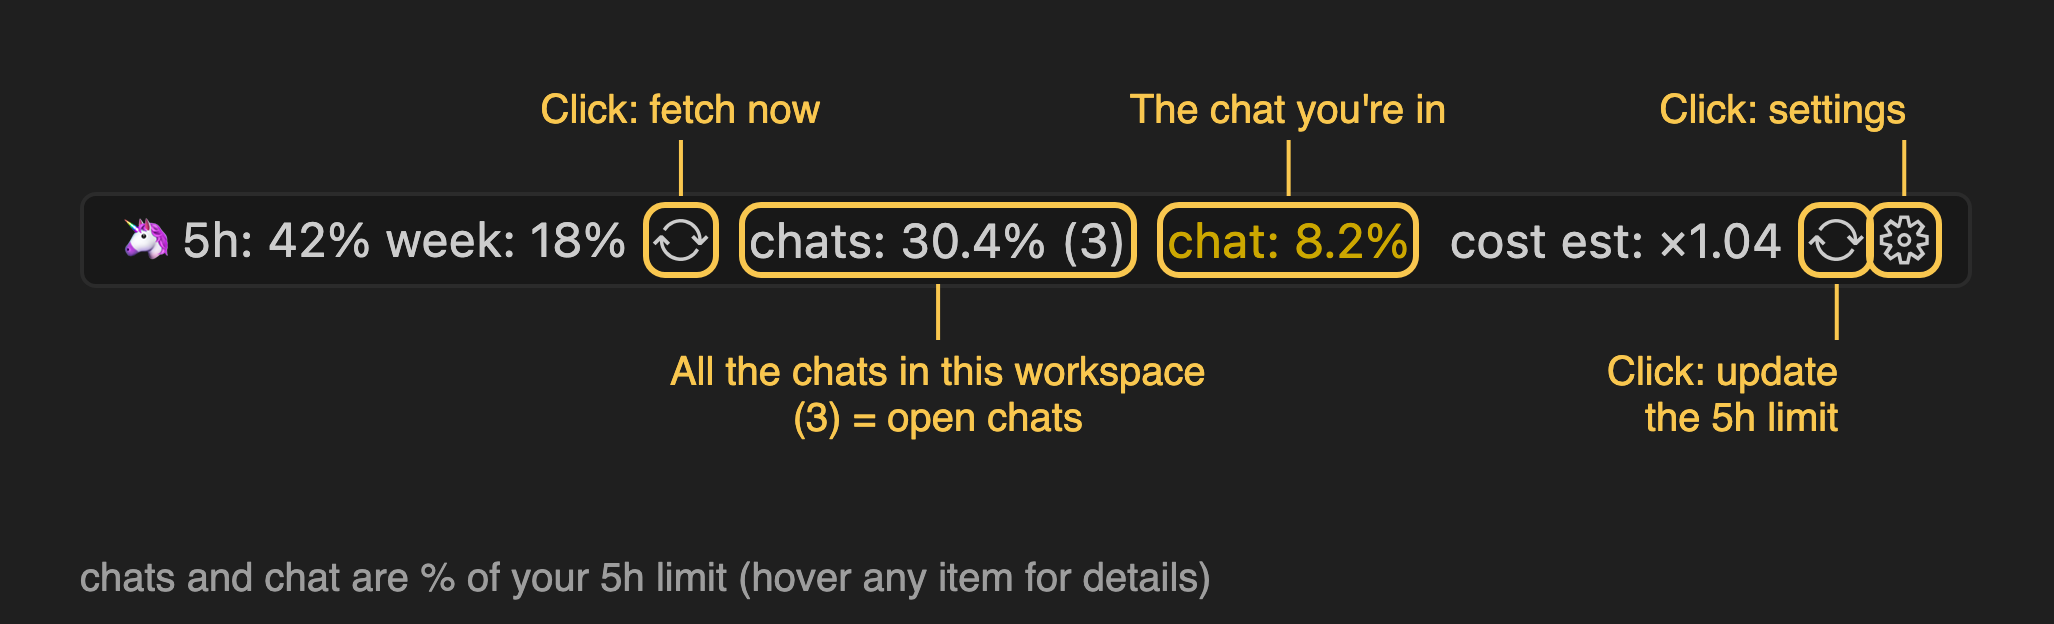
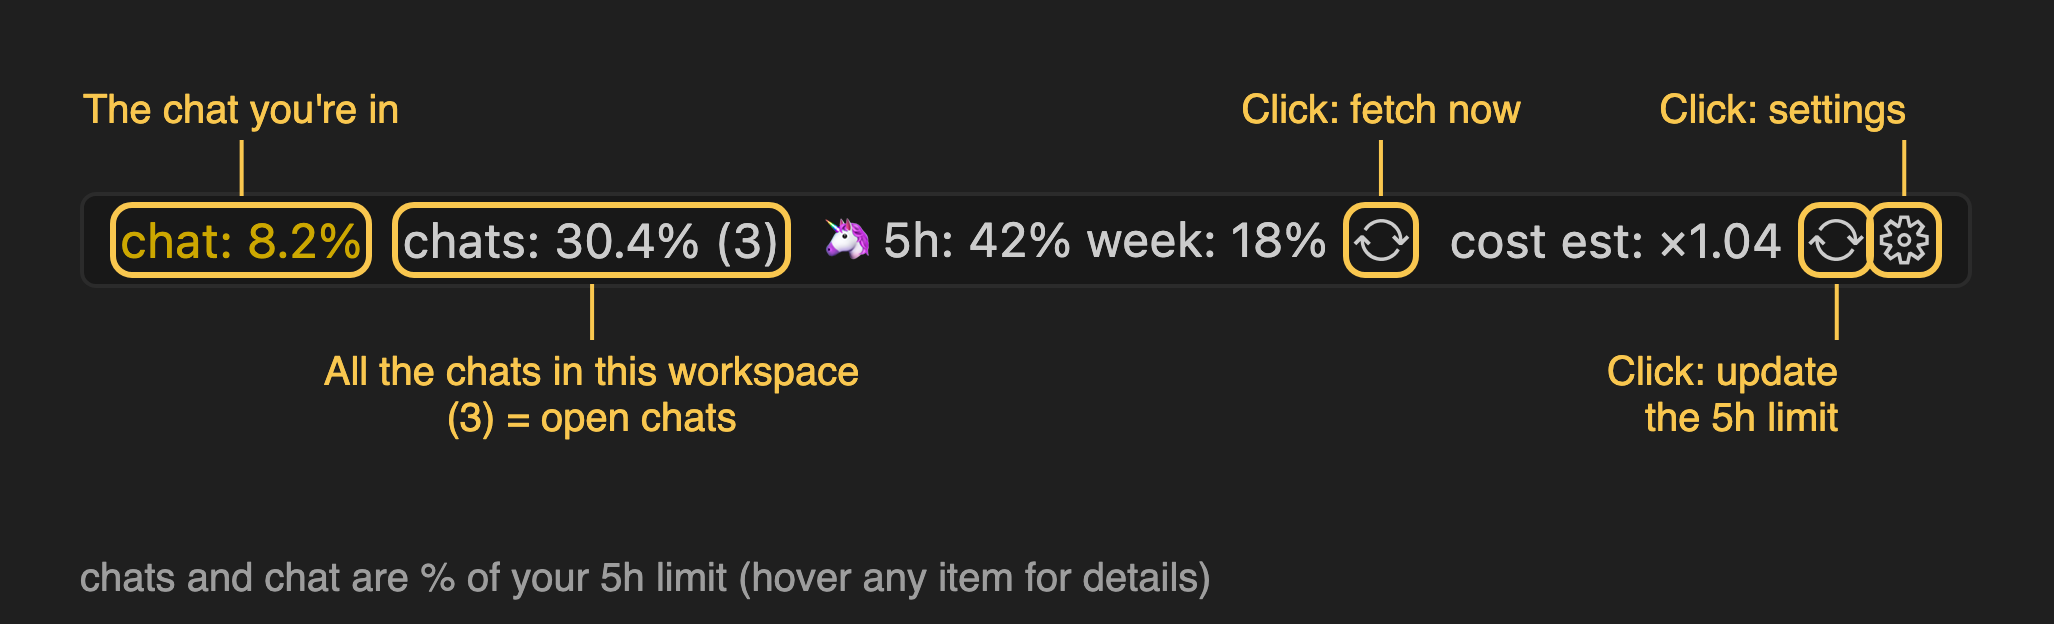
Status bar order: chat, chats, 5h/week, cost est; settings, README and overview picture follow

diff --git a/extension.js b/extension.js
@@ -115,13 +115,13 @@ function costColor(cost) {
 
 function activate(context) {
   // 5h and weekly (from the server); click to fetch them now
-  const item = vscode.window.createStatusBarItem(vscode.StatusBarAlignment.Left, 0);
+  const item = vscode.window.createStatusBarItem(vscode.StatusBarAlignment.Left, -0.0003);
   // still-running chats of this workspace
   const chatsItem = vscode.window.createStatusBarItem(vscode.StatusBarAlignment.Left, -0.0001);
   // the focused chat in its own item, so only its text gets colored
-  const chatItem = vscode.window.createStatusBarItem(vscode.StatusBarAlignment.Left, -0.0002);
+  const chatItem = vscode.window.createStatusBarItem(vscode.StatusBarAlignment.Left, 0);
   // CPU and memory of the still-running chats' processes, and of the focused chat's process
-  const procItem = vscode.window.createStatusBarItem(vscode.StatusBarAlignment.Left, -0.0003);
+  const procItem = vscode.window.createStatusBarItem(vscode.StatusBarAlignment.Left, -0.0002);
   // cost estimate (see COST_LABEL) with its update icon in the same item, so they sit together;
   // click: fetch the server now, then a menu: write the estimate into the limit5h setting, or hide the item
   const calItem = vscode.window.createStatusBarItem(vscode.StatusBarAlignment.Left, -0.0004);

diff --git a/usage.js b/usage.js
@@ -353,7 +353,7 @@ async function fetchServerUsage() {
 }
 
 // Status bar sections, in bar order, and the setting that switches each one on or off.
-const BAR_ORDER = ["limits", "chats", "chat", "cpu", "cost"];
+const BAR_ORDER = ["chat", "chats", "cpu", "limits", "cost"];
 const SHOW_SETTINGS = { limits: "showLimits", chats: "showChats", chat: "showChat", cpu: "showCpuMemory", cost: "showCostEstimate" };
 
 module.exports = { BAR_ORDER, SHOW_SETTINGS, PRICES, weights, weigh, usageSince, usage5h, usage7d, estimateLimit5h, sameWindow, addCalibrationReading, excludeWindow, projectDir, findSessionByTitle, sessionTotals, sessionUsage, activeSessions, activeSessionFiles, activeUsage, parsePs, processSnapshot, processTree, processUsage, fetchServerUsage, PLAN_LIMITS5H, PLAN_NAMES, planKey, fetchPlan };

diff --git a/README.md b/README.md
@@ -23,10 +23,10 @@ Turn each one on or off in the settings (click ⚙ at the end of the bar, then *
 
 | Section | What it shows | Click |
 |---|---|---|
-| ![5h and week](https://raw.githubusercontent.com/Ola1707/claude-usage-by-chat/main/images/5h-week.png) | Your real 5h and weekly usage, from Anthropic's server. Hover for when each one resets. | ⟳ fetches it now. |
-| ![chats](https://raw.githubusercontent.com/Ola1707/claude-usage-by-chat/main/images/chats.png) | All the open chats in this workspace, each since its first message, as % of the 5h limit. `(3)` is how many chats are open. | |
 | ![chat, small](https://raw.githubusercontent.com/Ola1707/claude-usage-by-chat/main/images/chat-green.png)<br>![chat, bigger](https://raw.githubusercontent.com/Ola1707/claude-usage-by-chat/main/images/chat-orange.png) | The chat you're in now, since its first message: what it really costs, so you know when to /clear. Green when small, then yellow (above 5%), orange (above 10%) and red (above 20%). Hover for its part in the current 5h window. | |
+| ![chats](https://raw.githubusercontent.com/Ola1707/claude-usage-by-chat/main/images/chats.png) | All the open chats in this workspace, each since its first message, as % of the 5h limit. `(3)` is how many chats are open. | |
 | ![CPU and memory](https://raw.githubusercontent.com/Ola1707/claude-usage-by-chat/main/images/cpu-memory.png) | CPU and memory of the running chats and of the chat you're in (macOS and Linux). **Off by default:** turn on **Show Cpu Memory**. | |
+| ![5h and week](https://raw.githubusercontent.com/Ola1707/claude-usage-by-chat/main/images/5h-week.png) | Your real 5h and weekly usage, from Anthropic's server. Hover for when each one resets. | ⟳ fetches it now. |
 | ![cost est](https://raw.githubusercontent.com/Ola1707/claude-usage-by-chat/main/images/cost-estimate.png) | How far the 5h limit setting is from the real limit (see [Cost estimate](#cost-estimate)). | ⟳ fetches the server and offers to update the limit. |
 
 ## Install

diff --git a/CHANGELOG.md b/CHANGELOG.md
@@ -2,6 +2,7 @@
 
 ## Unreleased
 
+- New order in the status bar: `chat`, `chats`, then `5h`/`week`, then `cost est`.
 - New icon: a 5h ring with this chat's share.
 - README: a Questions section (how it counts) and a link to GitHub issues for bugs and questions.
 - `chat` and `chats` count each open chat from its first message, so a 5h reset no longer zeroes them. The tooltip shows the part in the current 5h window.
